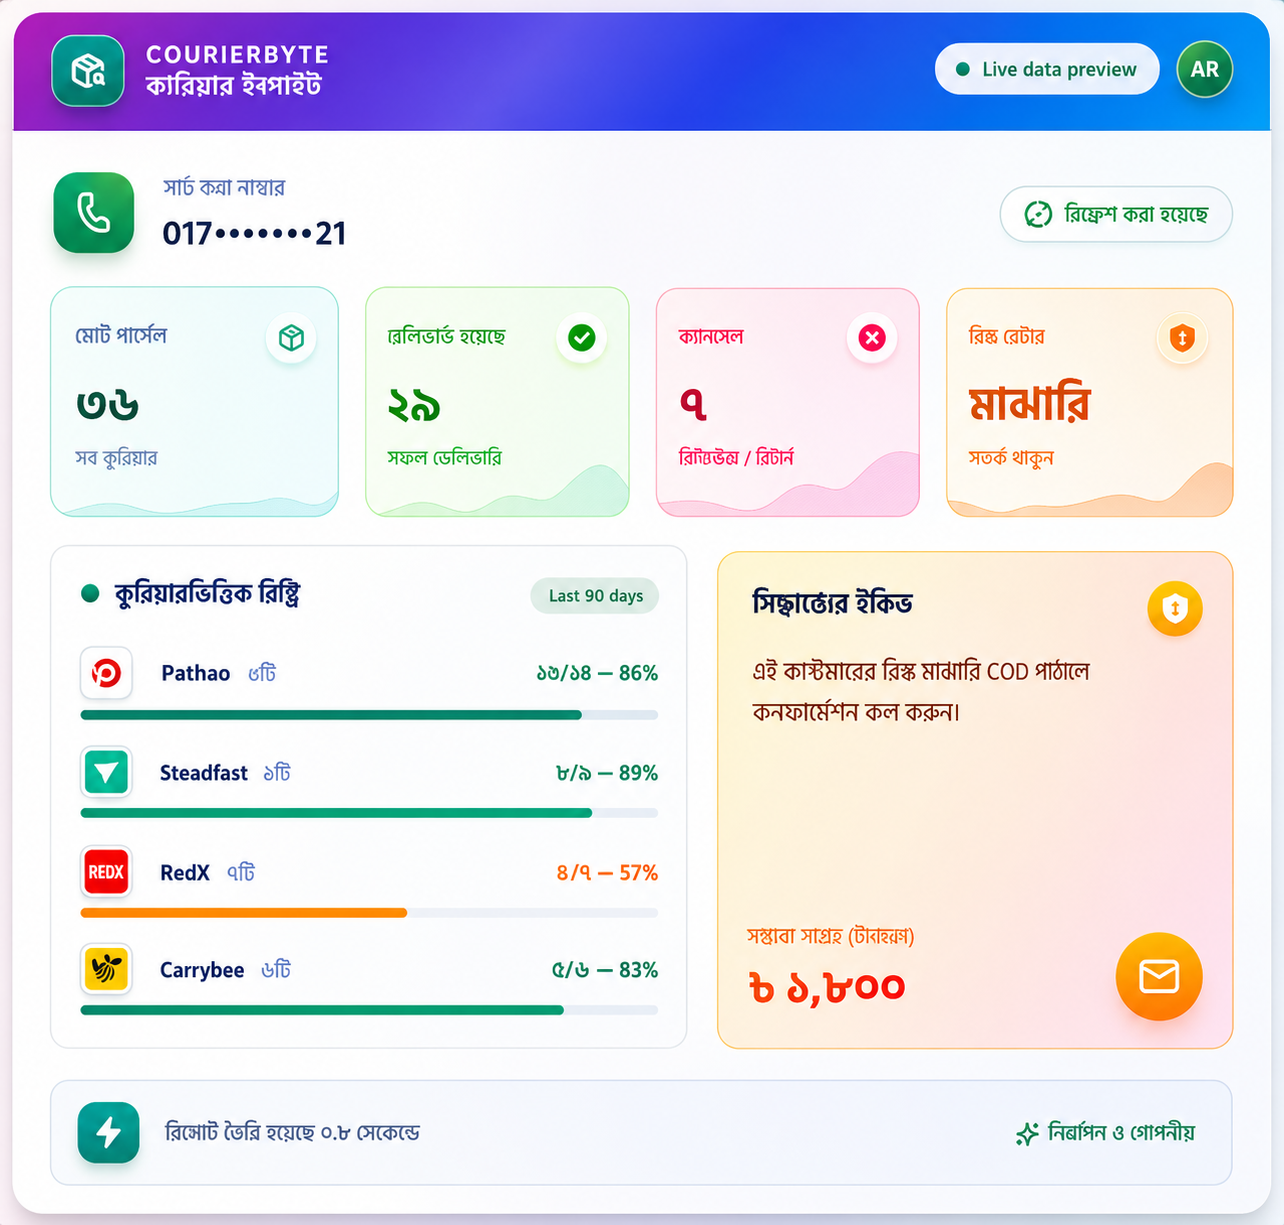
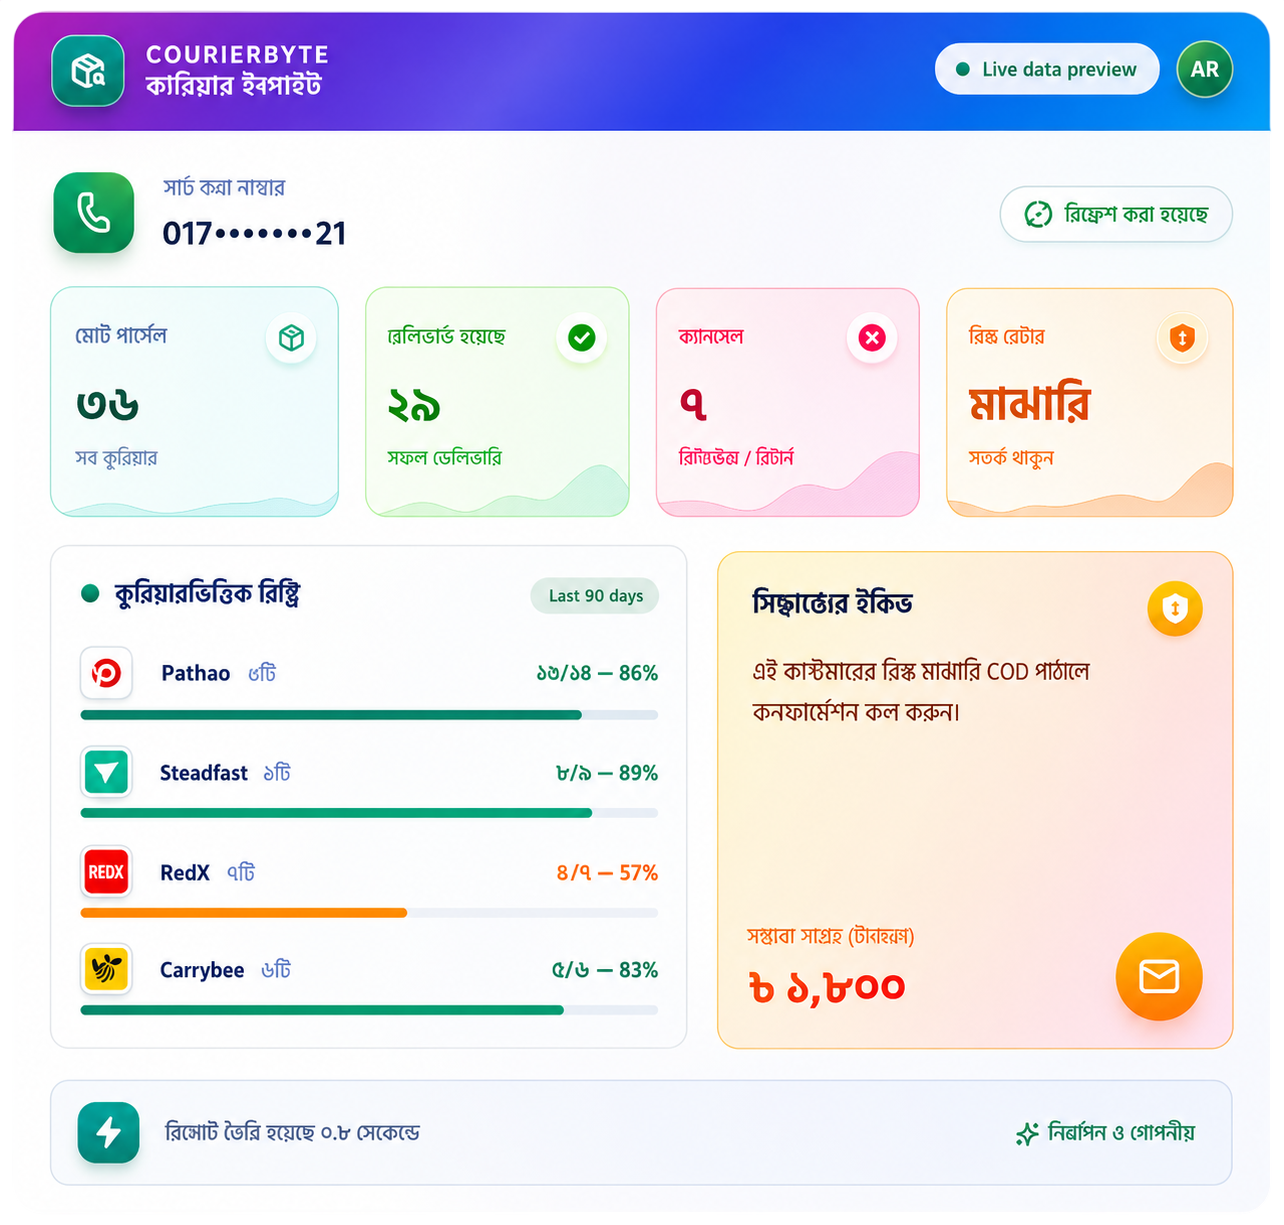
from pc

diff --git a/src/routes/admin/index.tsx b/src/routes/admin/index.tsx
@@ -769,13 +769,6 @@ function RouteComponent() {
 						<h1 className="text-2xl font-extrabold tracking-tight text-secondary-dark">
 							Dashboard
 						</h1>
-						<p className="mt-1 text-sm font-semibold text-slate-500">
-							{greeting}, {user?.name ?? "Admin"}
-							<span className="mx-2 text-slate-300" aria-hidden="true">
-								·
-							</span>
-							{todayLabel}
-						</p>
 					</div>
 					<div className="flex items-center gap-3">
 						<span className="hidden items-center gap-1.5 text-xs font-semibold text-slate-400 sm:inline-flex">
